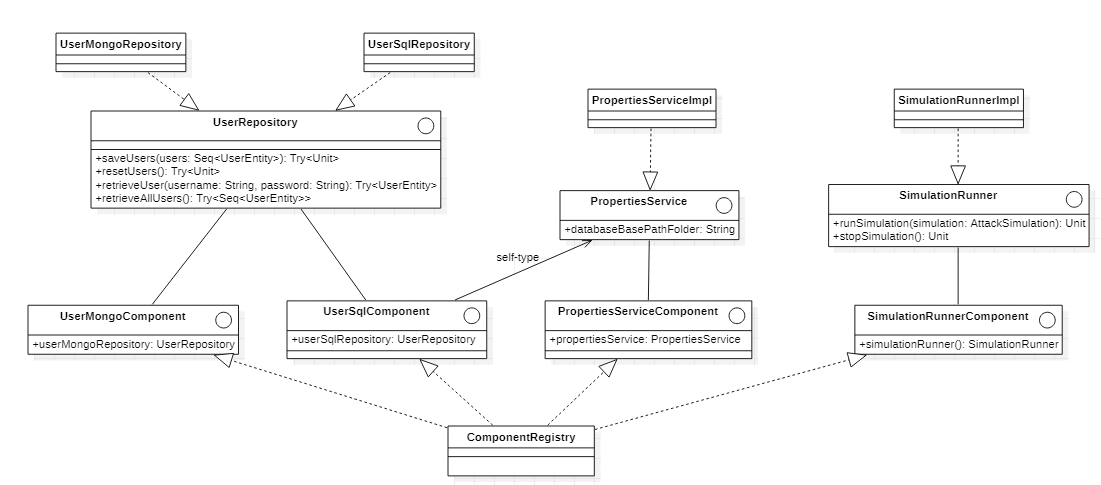
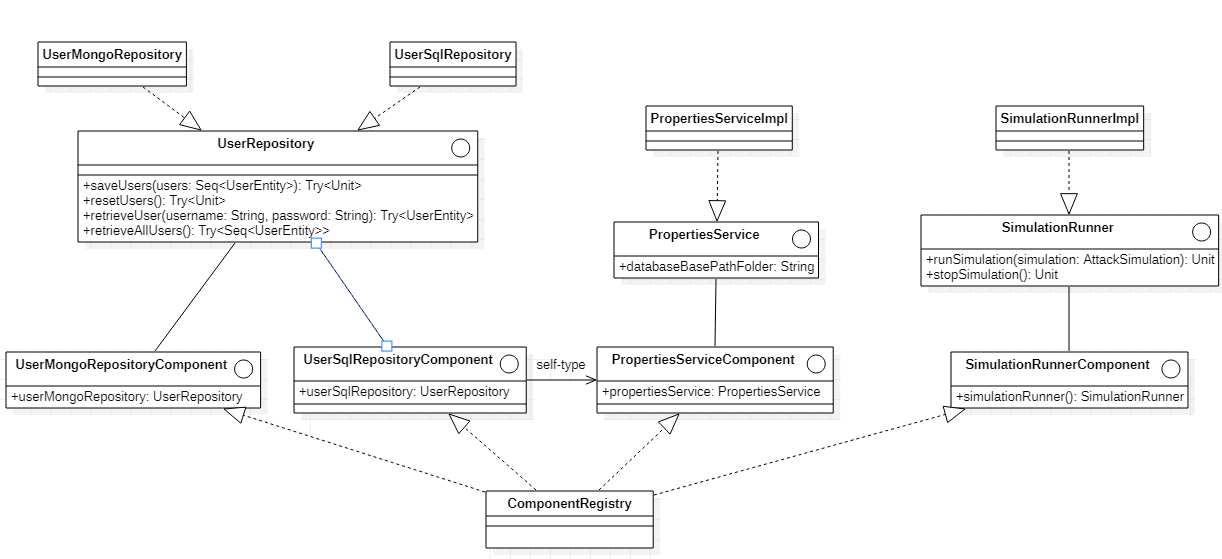
fix registry diagram

diff --git a/docs/3_architecture.md b/docs/3_architecture.md
@@ -71,7 +71,7 @@ in quanto la business logic è incapsulata quasi interamente nel dominio del *ta
 
 Questo diagramma riassume l'implementazione del pattern nel progetto.
 Si nota la presenza di una classe intermedia *AuthsimViewModelDeferedProxy* che effettua l'handling dei messaggi provenienti dalla view
-e delega la loro esecuzione alla classe ViewModel concreta. ViewModel concreta è stata implementata utilizzando le properties offerte da ScalaFx.
+e delega la loro esecuzione alla classe ViewModel concreta. ViewModel concreta è stata implementata utilizzando le *properties* offerte da ScalaFx.
 
 #### Business Logic e Dependency Injection
 
@@ -99,6 +99,9 @@ La business logic non è stata sufficientemente complessa in modo da permettere 
 estendibile con altri *component* qualora servisse ampliare l'applicativo con delle funzionalità nuove.
 
 ![Component Registry](/pps-2021-authsim/assets/images/registry.png)
+
+In fatto che UserSqlComponent dichiara PropertiesServiceComponent come self-type implica che il trait deve essere portato come mix-in senza estenderlo direttamente.
+In questo modo UserSqlComponent ha l'accesso a PropertiesService che viene istanziato nella classe ComponentRegistry
 
 ## Scelte tecnologiche
 
